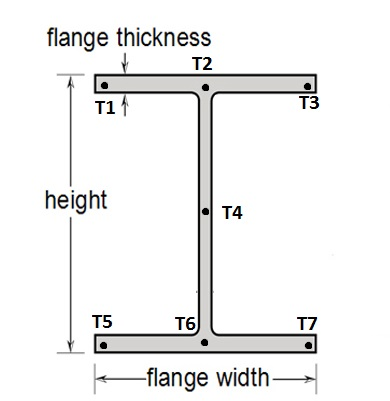
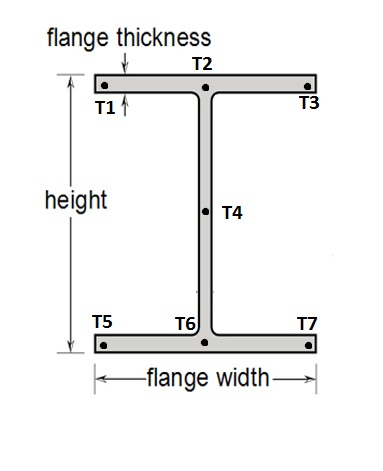
changed branch

Changed region(s): [[0.1149, 0.0599, 0.8329, 0.9875]]

diff --git a/js/main.js b/js/main.js
@@ -1,9 +1,11 @@
-    function maincode(P0,d,b,tf,tw,fy,axs,t1,t2,t4,t5,t6){
+function maincode(P0,d,b,tf,tw,fy,axs,t1,t4,t5){
 	  var r =0;
-	  var t7 = t5;
+	  var t2 = t1;
 	  var t3 = t1;
-	  var gs1 = 6;
-	  var gs2 = 4;
+	  var t6 = t5;
+	  var t7 = t5;
+	  var gs1 = 5;
+	  var gs2 = 2;
 	  var gs3 = 20;
 	  var gs4 = 10;
 	  var S = [];
@@ -14,8 +16,19 @@
 	  [matrix,x,y, Gx, Gy,dx,dy,Area,area,Ix,Iy,ix,iy,resi] = Sectionproperties(b,d,tf,tw,gs1,gs2,gs3,gs4,r);
 	  var load = P0;
 	  P0 = fy*area*load;
+	  console.log(P0);
 	  [temp] = temperature(matrix,b,d,tf,gs1,gs2,gs3,dx,dy,Gx,Gy,x,y,t1,t2,t3,t4,t5,t6,t7);
 	  [tstrain] = tempelong(temp,x,y,matrix);
+  var E = 200000;
+    var ststrain=0;
+  for (var i=0; i<=x; i++){
+    for (var j = 0; j <=y; j++){
+      if (matrix[i][j]==1){
+        ststrain = ststrain+ ((tstrain[i][j]*Area[i][j])/area);
+      }
+    }
+  }
+  var p = (P0/(area*E))-ststrain;
 	  var phi = 0;
 	  var k = -1;
 	  for (ki=-45; ki<46; ki++){
@@ -47,7 +60,7 @@
 			phi = (0.00003+(0.00000525*5*(ki-29)));         
 		}
 		phi = phi*500;
-		[Mx] = Momentcal(dx,dy,Area,matrix,Ix,Iy,phi,x,y,axs,P0,area,b,d,Gx,Gy,resi,tstrain,temp,fy);
+		[Mx] = Momentcal(dx,dy,Area,matrix,Ix,Iy,phi,x,y,axs,P0,area,b,d,Gx,Gy,resi,tstrain,temp,fy,p);
 	  var q = Mx.length;
 	  cur[k] = phi;
 	  for (j=0; j<q; j++){
@@ -57,11 +70,12 @@
 	  return [cur,S];
 	  
 	}
-	function maincodeminor(P0,d,b,tf,tw,fy,axs,t1,t2,t3,t4){
+	function maincodeminor(P0,d,b,tf,tw,fy,axs,t1,t2,t3){
 	  var r =0;
-	  var t7 = t3;
-	  var t6 = t2;
 	  var t5 = t1;
+	  var t4 = t2;
+	  var t6 = t2;
+	  var t7 = t3;
 	  var gs1 = 4;
 	  var gs2 = 4;
 	  var gs3 = 15;
@@ -76,6 +90,16 @@
 	  P0 = fy*area*load;
 	  [temp] = temperature(matrix,b,d,tf,gs1,gs2,gs3,dx,dy,Gx,Gy,x,y,t1,t2,t3,t4,t5,t6,t7);
 	  [tstrain] = tempelong(temp,x,y,matrix);
+        var ststrain=0;
+      var E = 200000;
+  for (var i=0; i<=x; i++){
+    for (var j = 0; j <=y; j++){
+      if (matrix[i][j]==1){
+        ststrain = ststrain+ (tstrain[i][j]*Area[i][j]/area);
+      }
+    }
+  }
+  var p = (P0/(area*E))-ststrain;
 	  var phi = 0;
 	  var k = -1;
 	  for (ki=-45; ki<46; ki++){
@@ -107,7 +131,7 @@
 			phi = (0.00003+(0.00000525*5*(ki-29)));         
 		}
 		phi = phi*500;
-		[Mx] = Momentcal(dx,dy,Area,matrix,Ix,Iy,phi,x,y,axs,P0,area,b,d,Gx,Gy,resi,tstrain,temp,fy);
+		[Mx] = Momentcal(dx,dy,Area,matrix,Ix,Iy,phi,x,y,axs,P0,area,b,d,Gx,Gy,resi,tstrain,temp,fy,p);
 	  var q = Mx.length;
 	  cur[k] = phi;
 	  for (j=0; j<q; j++){
@@ -115,21 +139,10 @@
 	  }
 	  }
 	  return [cur,S];
-	  console.log(cur);
-	  console.log(S);
 	}
 
-function Momentcal(dx,dy,Area,matrix,Ix,Iy,phi,x,y,axs,P0,area,b,d,Gx,Gy,resi,tstrain,temp,fy){
+function Momentcal(dx,dy,Area,matrix,Ix,Iy,phi,x,y,axs,P0,area,b,d,Gx,Gy,resi,tstrain,temp,fy,p){
   var E = 200000;
-  var ststrain=0;
-  for (var i=0; i<=x; i++){
-    for (var j = 0; j <=y; j++){
-      if (matrix[i][j]==1){
-        ststrain = ststrain+ (tstrain[i][j]*Area[i][j]/area);
-      }
-    }
-  }
-  var p = (P0/(area*E))-ststrain;
   [strainCG] = Newtonrap(phi,dx,dy,Gx,Gy,P0,x,y,axs,Area,matrix,p,b,d,resi,tstrain,temp,E,fy,area);
   var Yna = Gy-(strainCG/phi);
   var Xna = Gx-(strainCG/phi);
@@ -188,7 +201,7 @@ var countr = 0;
 var z = p;
 
 if (P0!=0){
-    var tolerr = Math.abs(0.01*P0);
+    var tolerr = Math.abs(0.001*P0);
 }
 else{
     var tolerr= 0.1;
@@ -216,41 +229,60 @@ while (Math.abs(error)>tolerr){
                 }
                 
                 [f,slope]=stress(strain,i,j,temp,E,fy);
-                
-                
-               
                 k = f*Area[i][j];
                 www = P;
                 P = k+www;
                 
-                ww = forcevar;
-                forcevar = ww+((slope*Area[i][j]));
+                //ww = forcevar;
+                // forcevar = ww+((slope*Area[i][j]));
             }
         }
     }
-  if (countr<25){
-    if (forcevar < area*200000){
-          forcevar= area*200000*0.1;
-    }
+ // if (countr<5){
+ //         forcevar= area*200000*0.01; 
+//  }
+  if (countr > 0 && countr < 15){
+    forcevar = area*200000*0.07;
   }
-  if (countr>24){
-    if (forcevar < area*200000){
-          forcevar= area*200000;
-    }
+  if (countr > 14 && countr < 30){
+    forcevar = area*2000000*0.1;
   }
+    if (countr > 29 && countr < 40){
+    forcevar = area*200000*0.5;
+  }
+      if (countr > 39 && countr < 80){
+    forcevar = area*200000;
+  }
+      if (countr > 79 && countr < 100){
+    forcevar = area*200000*5;
+  }
+  if (countr > 99 && countr < 120){
+    forcevar = area*200000*7;
+  }
+  if (countr > 119 && countr < 150){
+    forcevar = area*200000*25;
+  }
+    if (countr > 149){
+    forcevar = area*200000*50;
+  }
+  
+
+
   
     error = P0-P;
          if (error>0){
-             z = strainCG+Math.abs((error/forcevar));
+             z = strainCG+((error/forcevar));
             
          }
          if (error<0){
-             z = strainCG-Math.abs((error/forcevar));
+             z = strainCG+((error/forcevar));
             
          }
+    
          error = Math.abs(error);
-     if (countr ==300){
-       console.log(countr);
+     if (countr ==200){
+       var per_error = error*100/P0;
+       console.log(per_error);
        break;
      }
 }
@@ -343,10 +375,10 @@ for (var i = 0; i <= x; i++){
            }
 
           Area[i][j] = x1*x4;
-          Ix[i][j] = (x4*(x1^3))/12;
-          Iy[i][j] = (x1*(x4^3))/12;
+          Ix[i][j] = (x4*(x1**3))/12;
+          Iy[i][j] = (x1*(x4**3))/12;
         }
-        if ((i<=gs1-1 ||(i>(gs1+gs3)-1 && i<=x) ) && j>gs4-1 && j<= (gs2+gs4)-1){
+        if ((i<=gs1-1 ||(i>(gs1+gs3)-1 && i<=x) ) && j>gs4-1 && j<=(gs2+gs4)-1){
           if (dx[i][j]< b/2){
              resi[i][j] = r-(2*r*dx[i][j]*2/b);
           }else{
@@ -354,13 +386,13 @@ for (var i = 0; i <= x; i++){
           }
         
           Area[i][j] = x1*x2;
-          Ix[i][j] = (x2*(x1^3))/12;
-          Iy[i][j] = (x1*(x2^3))/12;
+          Ix[i][j] = (x2*(x1**3))/12;
+          Iy[i][j] = (x1*(x2**3))/12;
         }
         if (i>gs1-1 && i<=(gs1+gs3)-1 && (j<=gs4-1 ||(j> (gs2+gs4)-1 && j<=y))){
           Area[i][j] = x3*x4;
-          Ix[i][j] = (x4*(x3^3))/12;
-          Iy[i][j] = (x3*(x4^3))/12;
+          Ix[i][j] = (x4*(x3**3))/12;
+          Iy[i][j] = (x3*(x4**3))/12;
         }
         if (i>gs1-1 && i<=(gs1+gs3)-1 && j>gs4-1 && j<= (gs2+gs4)-1){
           if (dy[i][j]< d/2){
@@ -369,8 +401,8 @@ for (var i = 0; i <= x; i++){
                  resi[i][j] = r-(2*r*(dy[i][j]-0.5*d)*2/d);
           }
           Area[i][j] = x3*x2;
-          Ix[i][j] = (x2*(x3^3))/12;
-          Iy[i][j] = (x3*(x2^3))/12;
+          Ix[i][j] = (x2*(x3**3))/12;
+          Iy[i][j] = (x3*(x2**3))/12;
         }
         area = area+ Area[i][j];
       }
@@ -381,8 +413,8 @@ for (var i = 0; i <= x; i++){
   for (var i = 0; i <= x; i++){
     for (var j = 0; j <= y; j++){
       if (matrix[i][j]==1){
-        iy=iy+Area[i][j]*((Math.abs(dx[i][j]-Gx))^2);
-        ix=ix+Area[i][j]*((Math.abs(dy[i][j]-Gy))^2);
+        iy=iy+Area[i][j]*((Math.abs(dx[i][j]-Gx))**2);
+        ix=ix+Area[i][j]*((Math.abs(dy[i][j]-Gy))**2);
         resi[i][j] = resi[i][j] * 0.00125;
         
       }
@@ -436,7 +468,7 @@ for (var i=0; i<=x; i++){
     for (var j=0; j<=y; j++){
         if (matrix[i][j]==1){
             if (temp[i][j]<=750){
-                tstrain[i][j]=1.2*(10**(-5))*temp[i][j]+0.4*(10**(-8))*(temp[i][j]**2)-2.416*(10**(-4));
+                tstrain[i][j]=1.2*(10**(-5))*temp[i][j]+0.4*(10**(-8))*((temp[i][j])**2)-2.416*(10**(-4));
             }
             if (temp[i][j]>750 && temp[i][j]<=860){
                 tstrain[i][j]=1.1*(10**(-2));
@@ -450,7 +482,7 @@ for (var i=0; i<=x; i++){
 return [tstrain];
 }
 function stress(strain,i,j,temp,E,fy){
-var fyt, fpt, Et,ept,eyt,c,b,a
+var fyt, fpt, Et,ept,eyt,c,b,a;
 if (temp[i][j]<=100){
 fyt = fy;
 fpt = fy;
@@ -479,7 +511,7 @@ if (temp[i][j]>400 && temp[i][j]<=500){
 if (temp[i][j]>500 && temp[i][j]<=600){
     fyt=0.78*fy-((temp[i][j]-500)*(0.78*fy-0.47*fy)/100);
     fpt=0.36*fy-((temp[i][j]-500)*(0.36*fy-0.18*fy)/100);
-    Et=0.6*E-((temp-500)*(0.6*E-0.31*E)/100);
+    Et=0.6*E-((temp[i][j]-500)*(0.6*E-0.31*E)/100);
 }
 if (temp[i][j]>600 && temp[i][j]<=700){
     fyt=0.47*fy-((temp[i][j]-600)*(0.47*fy-0.23*fy)/100);
@@ -498,16 +530,16 @@ if (temp[i][j]>800 && temp[i][j]<=900){
 }
 ept=fpt/Et;
 eyt=0.02;
-c=((fyt-fpt)^2)/((eyt-ept)*Et-2*(fyt-fpt));
-b=(Math.abs(c*(eyt-ept)*Et+c^2))**0.5;
+c=((fyt-fpt)**2)/((eyt-ept)*Et-2*(fyt-fpt));
+b=(Math.abs(c*(eyt-ept)*Et+c**2))**0.5;
 a=(Math.abs((eyt-ept)*(eyt-ept+(c/Et))))**0.5;
 if (strain>=0){
-    if (strain<=ept+0.000001){
+    if (strain<=ept){
         f=strain*Et;
         slope=Et;
 	}
     
-    if (strain>ept+0.000001 && strain<= eyt){
+    if (strain>ept && strain<= eyt){
         f=fpt-c+(b/a)*((Math.abs((a**2)-(eyt-strain)**2))**0.5);
         slope=(b*(eyt-strain))/(a*(Math.abs((a**2)-(eyt-strain)**2))**0.5);
 	}
@@ -519,12 +551,12 @@ if (strain>=0){
 if (strain<0){
 	var negstr = -strain;
   strain = negstr;
-    if (strain<=ept+0.000001){
+    if (strain<=ept){
         f=strain*Et;
         slope=Et;
 	}
     
-    if (strain>ept+0.000001 && strain<= eyt){
+    if (strain>ept && strain<= eyt){
         f=fpt-c+(b/a)*((Math.abs((a**2)-(eyt-strain)**2))**0.5);
         slope=(b*(eyt-strain))/(a*(Math.abs((a**2)-(eyt-strain)**2))**0.5);
 	}
@@ -532,8 +564,8 @@ if (strain<0){
         f=fyt;
         slope=0;
 	}
-	f = -f;
+	negstr = -f;
+	f = negstr;
 }
  return [f,slope];
 }
-

diff --git a/axis.html b/axis.html
@@ -81,24 +81,16 @@
               <input type="text" class="form-control" id="inputOptionSix" placeholder="In MPa">
             </div>
 			<div class="form-group">
-              <label for="inputOptionSeven">Temperature at Location 1 and 3 </label>
+              <label for="inputOptionSeven">Temperature at Location 1, 2 and 3 </label>
               <input type="text" class="form-control" id="inputOptionSeven" placeholder="In degree Celsius (°C)">
-            </div>
-			<div class="form-group">
-              <label for="inputOptionEight">Temperature at Location 2 </label>
-              <input type="text" class="form-control" id="inputOptionEight" placeholder="In degree Celsius (°C)">
             </div>
 			<div class="form-group">
               <label for="inputOptionNine">Temperature at Location 4 </label>
               <input type="text" class="form-control" id="inputOptionNine" placeholder="In degree Celsius (°C)">
             </div>
 			<div class="form-group">
-              <label for="inputOptionTen">Temperature at Location 5 and 7 </label>
+              <label for="inputOptionTen">Temperature at Location 5, 6 and 7 </label>
               <input type="text" class="form-control" id="inputOptionTen" placeholder="In degree Celsius (°C)">
-            </div>
-			<div class="form-group">
-              <label for="inputOptionEleven">Temperature at Location 6 </label>
-              <input type="text" class="form-control" id="inputOptionEleven" placeholder="In degree Celsius (°C)">
             </div>
             <button type="submit" class="btn btn-default">Submit</button>
           </form>
@@ -136,16 +128,12 @@
               <input type="text" class="form-control" id="inputOptionSeven" placeholder="In degree Celsius (°C)">
             </div>
 			<div class="form-group">
-              <label for="inputOptionEight">Temperature at Location 2 and 6 </label>
+              <label for="inputOptionEight">Temperature at Location 2, 4 and 6 </label>
               <input type="text" class="form-control" id="inputOptionEight" placeholder="In degree Celsius (°C)">
             </div>
 			<div class="form-group">
               <label for="inputOptionNine">Temperature at Location 3 and 7 </label>
               <input type="text" class="form-control" id="inputOptionNine" placeholder="In degree Celsius (°C)">
-            </div>
-			<div class="form-group">
-              <label for="inputOptionTen">Temperature at Location 4 </label>
-              <input type="text" class="form-control" id="inputOptionTen" placeholder="In degree Celsius (°C)">
             </div>
             <button type="submit" class="btn btn-default">Submit</button>
           </form>

diff --git a/dostuff.js b/dostuff.js
@@ -22,7 +22,7 @@ $.urlParam = function(name){
             });
 
             console.log(values);
-			var result = maincode(values[0], values[1], values[2], values[3], values[4], values[5],0, values[6], values[7], values[8], values[9], values[10]);
+			var result = maincode(values[0], values[1], values[2], values[3], values[4], values[5],0, values[6], values[7], values[8]);
             console.log(result);
 			console.log(result[0].length);
 			plot_chart(result);
@@ -40,7 +40,7 @@ $.urlParam = function(name){
             });
 
             console.log(values);
-			var result = maincodeminor(values[0], values[1], values[2], values[3], values[4], values[5], 1, values[6], values[7], values[8], values[9]);
+			var result = maincodeminor(values[0], values[1], values[2], values[3], values[4], values[5], 1, values[6], values[7], values[8]);
             console.log(result);
 			console.log(result[0].length);
 			plot_chart(result);
